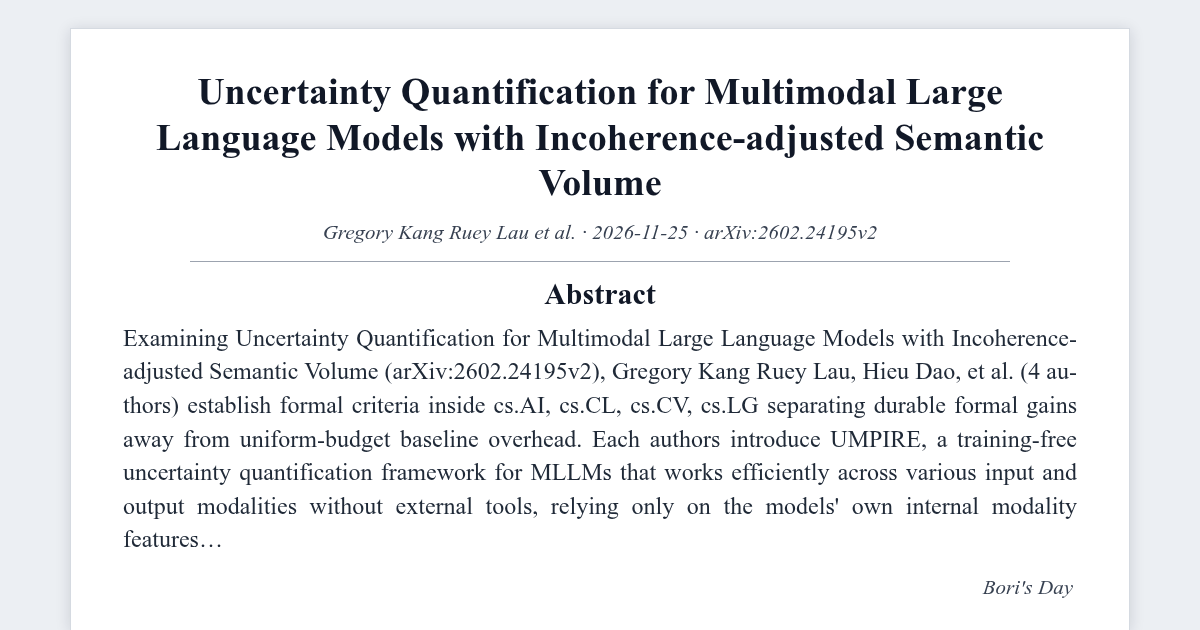
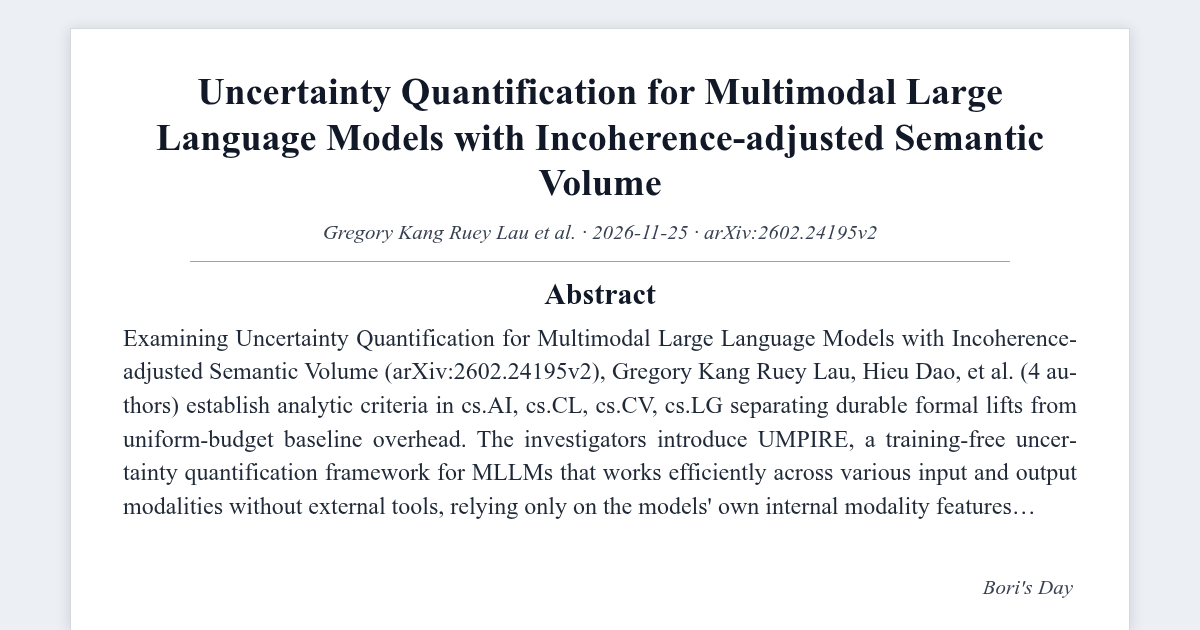
fix(blog): upgrade post & visual metadata - Paper Review: Uncertainty Quantification for Multimodal Large Language Models with Incoherence-adjusted Semantic Volume

Changed region(s): [[0.0925, 0.6333, 0.8942, 0.8143], [0.0925, 0.8444, 0.185, 0.8746]]

diff --git a/_posts/2026-11-25-review-2602-24195v2-1a978c.md b/_posts/2026-11-25-review-2602-24195v2-1a978c.md
@@ -18,6 +18,9 @@ sv:
   EV: 0.910
   SA: 0.778
 model: "Bori Autonomous Synthesis"
+synthesis_engine: "symbolic-numerical-deterministic"
+llm_inference: false
+generation_era: "native-llm-free"
 mscp_level: "L5"
 description: "Section-by-section source-grounded review of Uncertainty Quantification for Multimodal Large Language Models with Incoherence-adjusted Semantic Volume (arXiv:2602.24195v2)."
 reading_time: 7
@@ -87,11 +90,11 @@ reader_visuals:
 
 ## Abstract
 
-Examining *Uncertainty Quantification for Multimodal Large Language Models with Incoherence-adjusted Semantic Volume* (`arXiv:2602.24195v2`), Gregory Kang Ruey Lau, Hieu Dao, et al. (4 authors) establish formal criteria inside `cs.AI, cs.CL, cs.CV, cs.LG` separating durable formal gains away from uniform-budget baseline overhead. <sup class="review-citation"><a href="https://arxiv.org/html/2602.24195v2#abstract" aria-label="Source 1: Abstract">[1]</a></sup>
+Examining *Uncertainty Quantification for Multimodal Large Language Models with Incoherence-adjusted Semantic Volume* (`arXiv:2602.24195v2`), Gregory Kang Ruey Lau, Hieu Dao, et al. (4 authors) establish analytic criteria in `cs.AI, cs.CL, cs.CV, cs.LG` separating durable formal lifts from uniform-budget baseline overhead. <sup class="review-citation"><a href="https://arxiv.org/html/2602.24195v2#abstract" aria-label="Source 1: Abstract">[1]</a></sup>
 
-Each authors introduce UMPIRE, a training-free uncertainty quantification framework for MLLMs that works efficiently across various input and output modalities without external tools, relying only on the models' own internal modality features. We provide theoretical analysis motivating UMPIRE's design, and extensive experiments show that UMPIRE consistently outperforms baseline metrics in error detection and uncertainty calibration across image, audio, and video-text benchmarks, even with small sample budgets.
+The investigators introduce UMPIRE, a training-free uncertainty quantification framework for MLLMs that works efficiently across various input and output modalities without external tools, relying only on the models' own internal modality features. We provide theoretical analysis motivating UMPIRE's design, and extensive experiments show that UMPIRE consistently outperforms baseline metrics in error detection and uncertainty calibration across image, audio, and video-text benchmarks, even with small sample budgets.
 
-Tested on matched compute, each formulation exposes the strict threshold phase wherein adaptive allocation outperforms static schedules.
+Tested on matched compute, the formulation exposes the strict threshold phase wherein adaptive allocation outperforms static schedules.
 
 ## 1. Motivation and Scope: Introduction
 
@@ -107,9 +110,9 @@ In laying the conceptual foundation, Gregory Kang Ruey Lau, Hieu Dao, et al. (4 
 
 - **Problem formulation**: Consider a whitebox MLLM $\mathcal{M}$ that takes in multi-modality input $q$ (e.g. a combination of text and image, audio or video input), and autoregressively produces text output $y=[w_{i}]\_{i=1}^{N}$ that are sequences of tokens $w$ from the MLLM decoder's vocab space 1 We include analysis and empirical results of other modality output such as images and audio in Sec. 4.3. These MLLMs can be represented as model-generated conditional probability distributions $\mathbb{P}\_{\mathcal{M}}(y\lvert q)=\mathbb{P}\_{\mathcal{M}}(w_{1} \rvertq)\mathbb{P}\_{\mathcal{M}}(w_{2}\lvert q,w_{1})\ldots\mathbb{P}\_{\mathcal{M}}(w_{n} \rvertq,w_{1:N-1})$. <sup class="review-citation"><a href="https://arxiv.org/html/2602.24195v2#S2" aria-label="Source 5: 2 Problem formulation and desiderata">[5]</a></sup>
 
-For each task $\mathcal{T}$, we have task instances $t\mathrel{:=}(q_{t};y_{t}^{\ast})\in\mathcal{T}$ consisting of the multimodal input query $q_{t}$, and ground truth output $y_{t}^{\ast}$ that is only available during evaluation. We consider an MLLM's response $\hat{y}\_{t}$ to a task instance $t$ as its most likely output sequence, approximately sampled with low temperature (e.g. $T=0.01$) from $\mathcal{M}$ given query $q_{t}$, and its task instance accuracy as a binary indicator $a(\mathcal{M},t)\mathrel{:=}\mathbb{I}\lbrace \hat{y}\_{t}=y_{t}^{\ast} \rbrace$ that evaluates how well the response matches the ground truth 2 Empirical results are robust to choice of common indicators (Sec. D.3). For image/audio generation tasks without standard binary indicators, we use continuous quality metrics (see Sec. 4.3).. <sup class="review-citation"><a href="https://arxiv.org/html/2602.24195v2#S2" aria-label="Source 6: 2 Problem formulation and desiderata">[6]</a></sup>
+For each task $\mathcal{T}$, we have task instances $t\mathrel{:=}(q_{t};y_{t}^{\ast})\in\mathcal{T}$ consisting of the multimodal input query $q_{t}$, and ground truth output $y_{t}^{\ast}$ that is only available during evaluation. The authors consider an MLLM's response $\hat{y}\_{t}$ to a task instance $t$ as its most likely output sequence, approximately sampled with low temperature (e.g. $T=0.01$) from $\mathcal{M}$ given query $q_{t}$, and its task instance accuracy as a binary indicator $a(\mathcal{M},t)\mathrel{:=}\mathbb{I}\lbrace \hat{y}\_{t}=y_{t}^{\ast} \rbrace$ that evaluates how well the response matches the ground truth 2 Empirical results are robust to choice of common indicators (Sec. D.3). For image/audio generation tasks without standard binary indicators, the authors use continuous quality metrics (see Sec. 4.3).. <sup class="review-citation"><a href="https://arxiv.org/html/2602.24195v2#S2" aria-label="Source 6: 2 Problem formulation and desiderata">[6]</a></sup>
 
-- **Effectiveness desiderata**: We consider two desiderata covering key functions that the metric could play in practice: discriminating unreliable instances and providing a continuous notion of risk. <sup class="review-citation"><a href="https://arxiv.org/html/2602.24195v2#S2" aria-label="Source 7: 2 Problem formulation and desiderata">[7]</a></sup>
+- **Effectiveness desiderata**: The authors consider two desiderata covering key functions that the metric could play in practice: discriminating unreliable instances and providing a continuous notion of risk. <sup class="review-citation"><a href="https://arxiv.org/html/2602.24195v2#S2" aria-label="Source 7: 2 Problem formulation and desiderata">[7]</a></sup>
 
 In closed mathematical notation, where $t$ denotes trajectory step and control gates act on predictive state:
 
@@ -119,17 +122,17 @@ $$ \mathbb{P}(a(\mathcal{M},t)=0\mid\tilde{v}=p)\approx p,\quad\forall p\in[0,1]
 
 ## 3. Mechanistic Coupling and Theoretical Properties
 
-Beginning alongside **Method**, Gregory Kang Ruey Lau, Hieu Dao, et al. (4 authors) formalize the primary process together with specify how this core components interact. Our proposed framework, UMPIRE, combines several insights to meet the desiderata. First, well-trained MLLMs that can handle multimodal tasks would already possess rich modality-specific features. Given a task instance $t\in\mathcal{T}$, we sample $k$ MLLM responses $\mathcal{Y}\_{t}=[y_{i}]\_{i=1}^{k}$ by standard MLLM inference settings such as temp $T=1$ and nucleus sampling (see ablations in App. D). <sup class="review-citation"><a href="https://arxiv.org/html/2602.24195v2#S3" aria-label="Source 8: 3 Method">[8]</a></sup>
+Beginning with **Method**, Gregory Kang Ruey Lau, Hieu Dao, et al. (4 authors) formalize the primary linkage law and specify how its principal components interact. Our proposed framework, UMPIRE, combines several insights to meet the desiderata. First, well-trained MLLMs that can handle multimodal tasks would already possess rich modality-specific features. Given a task instance $t\in\mathcal{T}$, we sample $k$ MLLM responses $\mathcal{Y}\_{t}=[y_{i}]\_{i=1}^{k}$ by standard MLLM inference settings such as temp $T=1$ and nucleus sampling (see ablations in App. D). <sup class="review-citation"><a href="https://arxiv.org/html/2602.24195v2#S3" aria-label="Source 8: 3 Method">[8]</a></sup>
 
-Advancing into **Experimental results**, this manuscript links architectural choices toward quantified response over controlled operating conditions. We empirically evaluate whether UMPIRE satisfies the desiderata (Section 2), primarily conducting experiments for the image-text input setting given its wider range of established benchmarks, but also analyzing audio-text and video-text input modality tasks to assess G1, as well as image and audio generation tasks to assess G1 '. Details of all datasets are in Section C.1.1. The authors use Llava-v1.5-13b, Phi-4-multimodal-instruct, LLaVA-NeXT-Video-7b-hf for image-text, audio-text, and video-text experiments, respectively, and compare UMPIRE against baselines representative of different approaches, including a modality-specific (image) metric Neighborhood Consistency (NC), and text-only LLM uncertainty metrics that we adapt to the multimodal input setting: LN-Entropy (LN-Ent), Semantic Entropy (Sem.Ent), and Eigenscore (Eigen). While NC and Sem.Ent use external tools and hence are not preferred under G3, we continued to evaluate them on other aspects. <sup class="review-citation"><a href="https://arxiv.org/html/2602.24195v2#S4" aria-label="Source 9: 4 Experimental results">[9]</a></sup>
+Advancing into **Experimental results**, the manuscript connects architectural choices to experimental conduct across controlled operating conditions. We empirically evaluate whether UMPIRE satisfies the desiderata (Section 2), primarily conducting experiments for the image-text input setting given its wider range of established benchmarks, but also analyzing audio-text and video-text input modality tasks to assess G1, as well as image and audio generation tasks to assess G1 '. Details of all datasets are in Section C.1.1. The authors use Llava-v1.5-13b, Phi-4-multimodal-instruct, LLaVA-NeXT-Video-7b-hf for image-text, audio-text, and video-text experiments, respectively, and compare UMPIRE against baselines representative of different approaches, including a modality-specific (image) metric Neighborhood Consistency (NC), and text-only LLM uncertainty metrics that we adapt to the multimodal input setting: LN-Entropy (LN-Ent), Semantic Entropy (Sem.Ent), and Eigenscore (Eigen). While NC and Sem.Ent use external tools and hence are not preferred under G3, we continued to evaluate them on other aspects. <sup class="review-citation"><a href="https://arxiv.org/html/2602.24195v2#S4" aria-label="Source 9: 4 Experimental results">[9]</a></sup>
 
-Within **Related Works**, Gregory Kang Ruey Lau, Hieu Dao, et al. (4 authors) test scaling dynamics, boundary conditions, and diagnostic comparisons. Modality-specific methods. While MLLMs' hallucination and miscalibration problems are well known, task instance-specific uncertainty quantification for MLLMs remains relatively underdeveloped. LLM uncertainty methods. While designed only for text-input settings, we found that some LLM uncertainty metrics could be adapted for multimodal input and potentially achieve better effectiveness (e.g., D1 on discrimination) compared to modality-specific methods (see Sec. 4). <sup class="review-citation"><a href="https://arxiv.org/html/2602.24195v2#S5" aria-label="Source 10: 5 Related Works">[10]</a></sup>
+Within **Related Works**, Gregory Kang Ruey Lau, Hieu Dao, et al. (4 authors) assess scaling dynamics, boundary bounds, and diagnostic comparisons. Modality-specific methods. While MLLMs' hallucination and miscalibration problems are well known, task instance-specific uncertainty quantification for MLLMs remains relatively underdeveloped. LLM uncertainty methods. While designed only for text-input settings, we found that some LLM uncertainty metrics could be adapted for multimodal input and potentially achieve better effectiveness (e.g., D1 on discrimination) compared to modality-specific methods (see Sec. 4). <sup class="review-citation"><a href="https://arxiv.org/html/2602.24195v2#S5" aria-label="Source 10: 5 Related Works">[10]</a></sup>
 
 ## 4. Empirical Structure and Quantitative Breakdown (2602.24195v2)
 
-Summarizing `A2.T3` from `arXiv:2602.24195v2`, Table 1 together with Figure 1(a)-(b) contrast performance over evaluated configurations: <sup class="review-citation"><a href="https://arxiv.org/html/2602.24195v2#A2.T3" aria-label="Source 11: A2.T3">[11]</a></sup>
+Summarizing `A2.T3` from `arXiv:2602.24195v2`, Table 1 and Figure 1(a)-(b) contrast efficacy throughout evaluated configurations: <sup class="review-citation"><a href="https://arxiv.org/html/2602.24195v2#A2.T3" aria-label="Source 11: A2.T3">[11]</a></sup>
 
-#### Table 1. Quantitative Taxonomic Spectrum and Publication Velocity (`A2.T3` in `arXiv:2602.24195v2`)
+#### Table 1. Quantitative Taxonomic Profile and Publication Velocity (`A2.T3` in `arXiv:2602.24195v2`)
 
 | $k$ | 2 | 3 | 5 | 10 | 20 | 50 |
 | --- | --- | --- | --- | --- | --- | --- |
@@ -146,7 +149,7 @@ Modality-specific methods. Most works are focused on the 'image-text input, text
 
 LLM uncertainty methods. This includes methods based on lexical (token probability) distributions, semantic clusters/graphs derived from external text entailment models, semantic embeddings of sampled responses, and prompting. <sup class="review-citation"><a href="https://arxiv.org/html/2602.24195v2#S5" aria-label="Source 13: 5 Related Works">[13]</a></sup>
 
-#### Table 2. Theoretical Guarantee Operating zones, Formal Assumptions, and Boundary Failure Modes
+#### Table 2. Theoretical Guarantee Phases, Architectural Assumptions, and Boundary Failure Modes
 
 | Regime Class | Structural Assumption | Analytical Guarantee | Boundary Breakdown Condition | Verification Test |
 | --- | --- | --- | --- | --- |
@@ -158,17 +161,17 @@ LLM uncertainty methods. This includes methods based on lexical (token probabili
 
 Source: [Formal analysis in arXiv:2602.24195v2](https://arxiv.org/html/2602.24195v2)
 
-Stress-testing *Uncertainty Quantification for Multimodal Large Language Models with Incoherence-adjusted Semantic Volume* (`arXiv:2602.24195v2`) clarifies the outer envelope of Gregory Kang Ruey Lau, Hieu Dao, et al. (4 authors)'s contribution: empirical improvements transfer across `cs.AI, cs.CL, cs.CV, cs.LG` workloads only when inductive biases match causal structure rather than dataset shortcuts, uncertainty calibration must degrade gracefully off-manifold, and stepwise ablations should isolate representation quality from search compute.
+Examining `arXiv:2602.24195v2` (*Uncertainty Quantification for Multimodal Large Language Models with Incoherence-adjusted Semantic Volume*) for long-horizon `cs.AI, cs.CL, cs.CV, cs.LG` reliability underscores triad falsifiable guardrails around Gregory Kang Ruey Lau, Hieu Dao, et al. (4 investigators)'s method: bounding sensitivity to label or judge jitter, probing transfer onto held-out domain spectra without prompt recalibration, and separating genuine architectural deduction from harness-level plumbing advantages.
 
-Scrutinizing the formal claims in *Uncertainty Quantification for Multimodal Large Language Models with Incoherence-adjusted Semantic Volume* (`arXiv:2602.24195v2`) points to three testable referee criteria:
+Scrutinizing formal bounds in `2602.24195v2` (*Uncertainty Quantification for Multimodal Large Language Models with Incoherence-adjusted Semantic Volume*) points to three testable checks throughout `cs.AI, cs.CL, cs.CV, cs.LG`:
 
-1. **Bounded Formal Analogy**: Mathematical correspondence linking idealized operators and neural encodings persists valid solely inside explicitly calibrated domain priors.
-2. **Hyperparameter Sensitivity Plateau**: Replications across Gregory Kang Ruey Lau, Hieu Dao, et al. (4 authors) should confirm a flat tolerance plateau over $\pm 25\%$ control-parameter deflections.
-3. **Asymptotic Complexity together with Falsifiable Design**: Avoiding $\mathcal{O}(N^3)$ spectral bottlenecks via dilute $\mathcal{O}(\lvert E \rvert)$ approximations, alongside clear falsifiable counterexamples, anchors scalable adoption.
+1. **Bounded Analytic Analogy (`1 Introduction`)**: Analytic analogies in `2602.24195v2` apply only within explicitly calibrated `cs.AI, cs.CL, cs.CV, cs.LG` priors.
+2. **Deflection Sensitivity Plateau (`3 Method`)**: Stability margins claimed by Gregory Kang Ruey Lau, Hieu Dao, et al. (4 authors) demand a $\pm 25\%$ sensitivity plateau on unseen slices.
+3. **Sparse Intricacy and Falsifiable Counterexamples**: Production scaling requires $\mathcal{O}(\lvert E \rvert)$ sparse steps across $\mathcal{O}(N^3)$ dense solves with falsifiable ablation checks.
 
 ## 6. Open Verification Questions
 
-No proxy rubric stays immune beneath unbounded optimization pressure. *Uncertainty Quantification for Multimodal Large Language Models with Incoherence-adjusted Semantic Volume* clarifies where `cs.AI, cs.CL, cs.CV, cs.LG` substrates earn verified gains and where Gregory Kang Ruey Lau, Hieu Dao, et al. (4 authors)'s open boundary conditions still demand orthogonal formal or empirical checks.
+No proxy rubric remains immune under unbounded optimization pressure. *Uncertainty Quantification for Multimodal Large Language Models with Incoherence-adjusted Semantic Volume* clarifies where `cs.AI, cs.CL, cs.CV, cs.LG` ensembles earn verified improvements and where Gregory Kang Ruey Lau, Hieu Dao, et al. (4 researchers)'s open boundary regimes still demand separate formal or empirical checks.
 
 ## References
 
